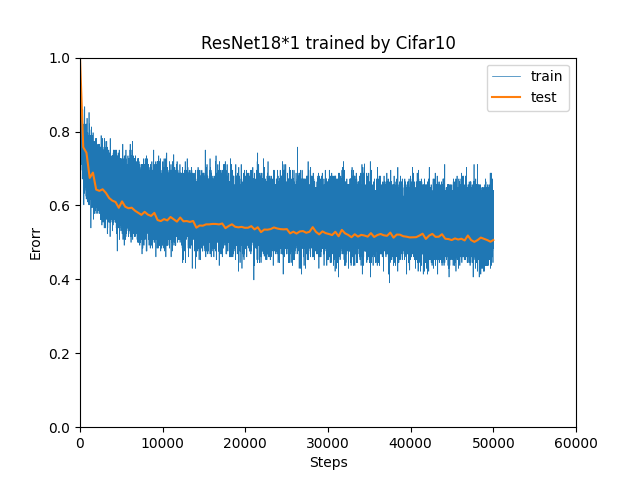
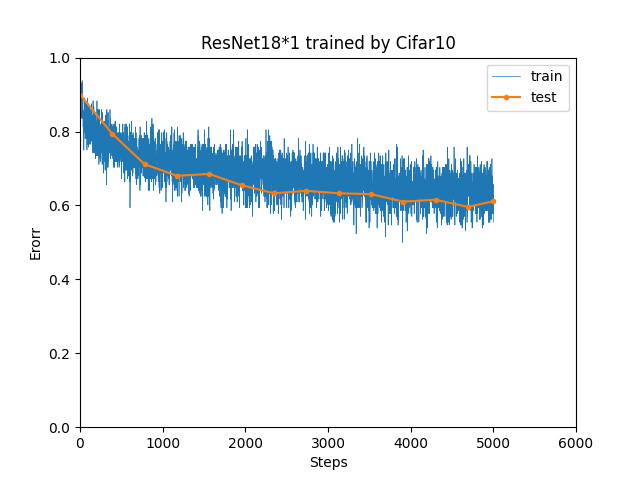
update

diff --git a/workspace/research/dd.py b/workspace/research/dd.py
@@ -57,10 +57,25 @@ def main():
     x2 = []
     trerr = []
     teerr = []
-    trerr.append(1)
-    teerr.append(1)
+    trloss = []
+    teloss = []
     x2.append(0)
-    data_save = []
+    train_data_save = []
+    train_data_save.append(["step", "error", "loss"])
+    train_acc, train_loss = test(model, device, test_loader, criterion)
+    #test()を使ってtrainデータのerrorとlossの初期値を取得
+    train_data_save.append([0, 1.0 - train_acc, train_loss])
+    trerr.append(1.0 - train_acc)
+    trloss.append(train_loss)
+
+    test_data_save = []
+    test_data_save.append(["step", "error", "loss"])
+    test_acc, test_loss = test(model, device, test_loader, criterion)
+    #test()を使ってtestデータのerrorとlossの初期値を取得
+    test_data_save.append([0, 1.0 - test_acc, test_loss])
+    teerr.append(1.0 - test_acc)
+    teloss.append(test_loss)
+
     count = 0
     while(grad_steps != count):
         running_loss = 0.0
@@ -83,31 +98,53 @@ def main():
             running_loss += loss.item()
 
             train_acc, train_loss = calc_score(output_list, target_list, running_loss, train_loader)
-            if count % 100 == 0 and count != 0:
+            if count % 1000 == 0 and count != 0:
                 stdout_temp = 'step: {:>3}/{:<3}, train acc:{:<8}, train loss: {:<8}'
                 print(stdout_temp.format(count, grad_steps, train_acc, train_loss))
             trerr.append(1.0 - train_acc)
+            trloss.append(loss.item())
             count += 1
             scheduler.step()
+            train_data_save.append([count, 1.0 - train_acc, train_loss])
         test_acc, test_loss = test(model, device, test_loader, criterion)
         stdout_temp = 'step: {:>3}/{:<3}, test acc:{:<8}, test loss: {:<8}'
         print(stdout_temp.format(count, grad_steps, test_acc, test_loss))
         teerr.append(1.0 - test_acc)
+        teloss.append(test_loss)
+        test_data_save.append([count, 1.0 - train_acc, train_loss])
         x2.append(count)
     
-    # with open('resnet18*' + str(args.model_width) + '-cifat10.csv','w') as file:
-    #     writer = csv.writer(file)
-    #     writer.writerows(data_save)
+    with open('./csv/resnet18*' + str(args.model_width) + '-cifar10-train.csv','w') as file:
+        writer = csv.writer(file)
+        writer.writerows(train_data_save)
+
+    with open('./csv/resnet18*' + str(args.model_width) + '-cifar10-test.csv','w') as file:
+        writer = csv.writer(file)
+        writer.writerows(test_data_save)
     
+    #errorのグラフ化
     plt.title("ResNet18*" + str(args.model_width) + " trained by Cifar10")
     plt.xlim(0, grad_steps * 1.2)
     plt.ylim(0, 1)
     plt.xlabel("Steps")
     plt.ylabel("Erorr")
     plt.plot(x1, trerr, label = 'train', linewidth=0.5)
-    plt.plot(x2, teerr, label = 'test')
+    plt.plot(x2, teerr, marker='.', label='test')
     plt.legend(loc='upper right')
     plt.savefig("./output/ResNet18*" + str(args.model_width) + "TrainedByCifar10.png")
+
+    plt.close()
+
+    #lossのグラフ化
+    plt.title("ResNet18*" + str(args.model_width) + " trained by Cifar10")
+    plt.xlim(0, grad_steps * 1.2)
+    plt.ylim(0, max(max(trloss) * 1.2, max(teloss) * 1.2))
+    plt.xlabel("Steps")
+    plt.ylabel("Loss")
+    plt.plot(x1, trloss, label = 'train', linewidth=0.5)
+    plt.plot(x2, teloss, marker='.', label='test')
+    plt.legend(loc='upper right')
+    plt.savefig("./output/loss-ResNet18*" + str(args.model_width) + "TrainedByCifar10.png")
 
 
     
@@ -165,7 +202,7 @@ def calc_score(output_list, target_list, running_loss, data_loader):
     result = classification_report(output_list, target_list, output_dict=True)
     acc = round(result['accuracy'], 6)
     table = classification_report(output_list, target_list)
-    loss = round(running_loss / len(data_loader.dataset), 6)
+    loss = round(running_loss / len(data_loader), 6)
 
     return acc, loss
 
